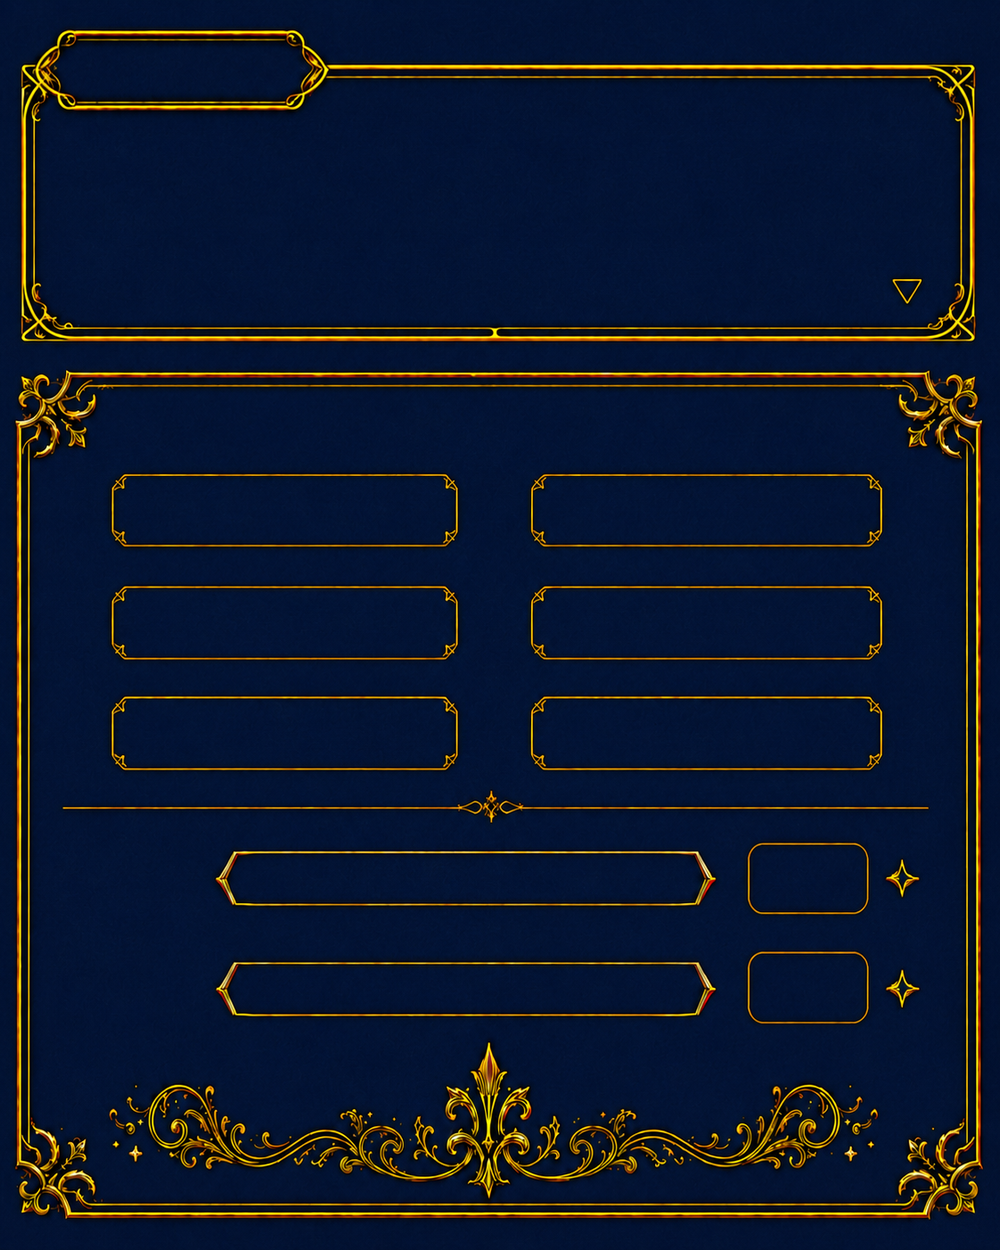
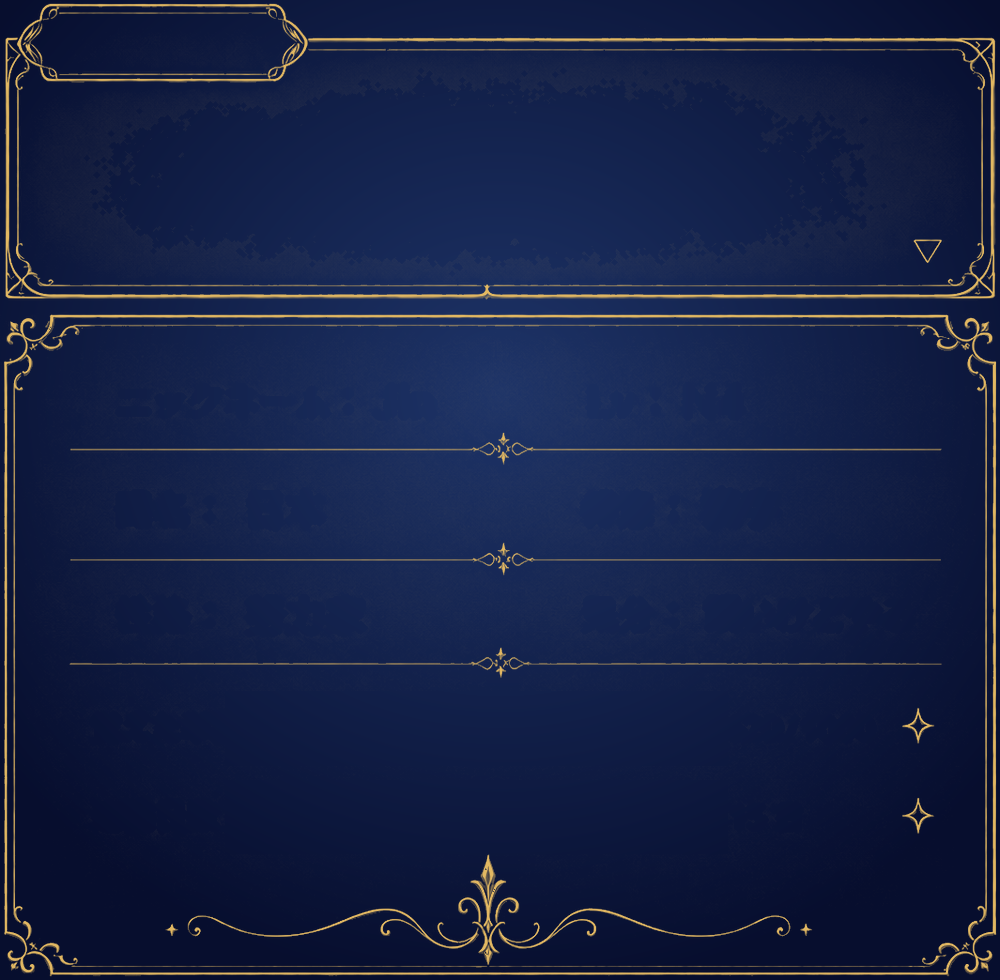
feat(town): 会話+ステータス枠を新デザインに刷新(ラベル:値/標準バー/背景グラデ/テーマ連動文字色)＋招待ボタンをタイトル横(白)へ・紹介コード削除

diff --git a/src/screens/KotobaTownScreen.tsx b/src/screens/KotobaTownScreen.tsx
@@ -142,15 +142,16 @@ const DIALOGBOX = require('../../assets/kotoba/ui/dialogbox.png');
 // 会話+ステータス一体フレーム(上=台詞窓/下=ステータス6枠+バー2行)。ダーク/ライトは同一ジオメトリ(座標表CSは共通)。テーマで切替。
 const CSFRAME_DARK = require('../../assets/kotoba/ui/csframe_dark.png');
 const CSFRAME_LIGHT = require('../../assets/kotoba/ui/csframe_light.png');
-// フレーム内の各要素の分率座標 [x0,y0,x1,y1](素材の枠を機械検出)。名前枠/台詞窓/6枠/バー2行/数字マス。
+// フレーム内の分率座標(サンプル配置を機械検出→トリム後の最終フレーム基準)。
+//  name=話者枠 / say=台詞窓 / 6項目は「ラベル：値」を xL(左列)・xR(右列) の各行(rowY)へ / バー2行(barRowY)＝ラベル+バー(barX0..barX1)+数字(numX)。
 const CS = {
-  name: [0.039, 0.026, 0.323, 0.084],
-  say: [0.05, 0.10, 0.92, 0.28],
-  nick: [0.114, 0.381, 0.455, 0.435], strong: [0.533, 0.381, 0.879, 0.435],
-  lv: [0.114, 0.470, 0.455, 0.526], per: [0.533, 0.470, 0.879, 0.526],
-  country: [0.113, 0.558, 0.455, 0.614], mood: [0.533, 0.558, 0.879, 0.614],
-  bar1: [0.220, 0.682, 0.709, 0.722], num1: [0.749, 0.676, 0.866, 0.730],
-  bar2: [0.222, 0.771, 0.708, 0.810], num2: [0.749, 0.762, 0.866, 0.817],
+  name: [0.021, 0.006, 0.304, 0.079],
+  say: [0.05, 0.11, 0.93, 0.27],
+  xL: 0.09, xR: 0.566,
+  rowY: [0.411, 0.521, 0.629],
+  barLabelX: 0.09,
+  barRowY: [0.744, 0.834],
+  barX0: 0.258, barX1: 0.662, numX: 0.702,
 } as const;
 // 会話を始めるたびにシーンをランダムに選ぶ(固定ではなく多様性を持たせる)。昼夜は実時刻(isDay)で切替。
 
@@ -684,17 +685,12 @@ export default function KotobaTownScreen() {
       {/* 上部バー */}
       <SafeAreaView edges={['top']} style={s.top} pointerEvents="box-none">
         <View style={s.topBar} pointerEvents="box-none">
-          <View style={s.pill}><Text style={s.pillT}>日本語学習者の町</Text></View>
+          <View style={s.topLeft} pointerEvents="box-none">
+            <View style={s.pill}><Text style={s.pillT}>日本語学習者の町</Text></View>
+            {/* 友だちを町に招待(リンク共有→相手が参加で住人に)。白・アイコン無しでタイトル横に。 */}
+            <Pressable style={s.inviteWhite} onPress={onInvite}><Text style={s.inviteWhiteT}>友だちを町に招待</Text></Pressable>
+          </View>
           <Pressable onPress={() => nav.goBack()} hitSlop={12} style={s.close}><Ionicons name="close" size={22} color="#3a3128" /></Pressable>
-        </View>
-        {/* 友だちを町に招待(リンク共有→相手が参加で住人に)＋紹介コード。町=社交の世界観に最も合う入口。 */}
-        <View style={s.inviteRow} pointerEvents="box-none">
-          <Pressable style={[s.inviteBtn, s.inviteBtnSearch]} onPress={onInvite}>
-            <Text style={s.inviteT}>🏘 友だちを町に招待</Text>
-          </Pressable>
-          <Pressable style={s.inviteBtn} onPress={() => nav.navigate('Referral')}>
-            <Text style={s.inviteT}>🎁 紹介コード</Text>
-          </Pressable>
         </View>
       </SafeAreaView>
 
@@ -714,8 +710,8 @@ export default function KotobaTownScreen() {
         const per = personalityOf(talk.personality);
         const mm = moodMsgOf(talk.moodMsg);
         const learned = talk.learned ?? 0;
-        const vocabPct = Math.max(6, Math.min(100, Math.round((learned / 2000) * 100)));
-        const streakPct = Math.max(6, Math.min(100, Math.round(((talk.streak ?? 0) / 60) * 100)));
+        const vocabPct = Math.max(4, Math.min(100, Math.round((learned / 1000) * 100)));
+        const streakPct = Math.max(4, Math.min(100, Math.round(((talk.streak ?? 0) / 30) * 100)));
         const scene = SCENES[talkScene][isDay ? 'day' : 'night'];
         // 一体フレーム(素材はテーマで切替・座標CSは共通)。全幅で高さ=素材比。
         const frameSrc = Image.resolveAssetSource(isDark ? CSFRAME_DARK : CSFRAME_LIGHT);
@@ -740,17 +736,19 @@ export default function KotobaTownScreen() {
         const barTrack = isDark ? 'rgba(9,14,42,0.9)' : '#cdc7b6';
         const panelBg = isDark ? '#132048' : '#f5f1e6';
         const fbox = (r: readonly number[]) => ({ position: 'absolute' as const, left: r[0] * FW, top: r[1] * FH, width: (r[2] - r[0]) * FW, height: (r[3] - r[1]) * FH });
-        const FIELDS: { r: readonly number[]; lab: string; val: string }[] = [
-          { r: CS.nick, lab: 'ニックネーム', val: talk.nick },
-          { r: CS.strong, lab: '得意', val: talk.strong ?? '-' },
-          { r: CS.lv, lab: 'Lv', val: String(talk.level) },
-          { r: CS.per, lab: '性格', val: per ? per.label : '-' },
-          { r: CS.country, lab: '国名', val: (talk.flag ?? '').trim() || '-' },
-          { r: CS.mood, lab: '気分', val: mm ?? '-' },
+        // 6項目=「ラベル：値」を左右2列×3行に。x=列開始, y=行の中心。
+        const FIELDS: { x: number; y: number; lab: string; val: string }[] = [
+          { x: CS.xL, y: CS.rowY[0], lab: 'ニックネーム', val: talk.nick },
+          { x: CS.xR, y: CS.rowY[0], lab: 'Lv', val: String(talk.level) },
+          { x: CS.xL, y: CS.rowY[1], lab: '国名', val: (talk.flag ?? '').trim() || '-' },
+          { x: CS.xR, y: CS.rowY[1], lab: '得意', val: talk.strong ?? '-' },
+          { x: CS.xL, y: CS.rowY[2], lab: '性格', val: per ? per.label : '-' },
+          { x: CS.xR, y: CS.rowY[2], lab: '気分', val: mm ?? '-' },
         ];
-        const bars: { r: readonly number[]; numR: readonly number[]; lab: string; pct: number; num: number; col: string }[] = [
-          { r: CS.bar1, numR: CS.num1, lab: '覚えた単語', pct: vocabPct, num: learned, col: '#37cc74' },
-          { r: CS.bar2, numR: CS.num2, lab: '継続日数', pct: streakPct, num: talk.streak ?? 0, col: '#4aa3ff' },
+        // バー2行=ラベル(左)＋バー(barX0..barX1)＋数字(numX)。覚えた単語=青 / 連続日数=緑(サンプル準拠)。
+        const bars: { lab: string; pct: number; num: string; col: string; y: number }[] = [
+          { lab: '覚えた単語', pct: vocabPct, num: `${learned} / 1000`, col: '#4aa3ff', y: CS.barRowY[0] },
+          { lab: '連続日数', pct: streakPct, num: `${talk.streak ?? 0} 日`, col: '#37cc74', y: CS.barRowY[1] },
         ];
         return (
           <View style={[s.cvWrap, { backgroundColor: panelBg }]}>
@@ -776,31 +774,18 @@ export default function KotobaTownScreen() {
                 </Pressable>
                 {pages.length > 1 && <Text style={{ position: 'absolute', right: FW * 0.14, top: CS.say[3] * FH - FW * 0.075, color: labCol, fontSize: Math.round(FW * 0.03), fontWeight: '800' }}>{page + 1}/{pages.length}</Text>}
                 <Animated.Text style={{ position: 'absolute', right: FW * 0.05, top: CS.say[3] * FH - FW * 0.085, color: labCol, fontSize: Math.round(FW * 0.045), fontWeight: '900', opacity: nextOp, transform: [{ translateY: nextY }] }}>▽</Animated.Text>
-                {/* 6枠: ラベル(枠上・金)＋値(枠内中央) */}
+                {/* 6項目=「ラベル：値」(2列×3行) */}
                 {FIELDS.map((f, i) => (
-                  <View key={i} pointerEvents="none">
-                    <View style={{ position: 'absolute', left: f.r[0] * FW, top: f.r[1] * FH - FW * 0.048, width: (f.r[2] - f.r[0]) * FW, alignItems: 'center' }}>
-                      <Text style={{ color: labCol, fontWeight: '800', fontSize: Math.round(FW * 0.028) }} numberOfLines={1}>{f.lab}</Text>
-                    </View>
-                    <View style={[fbox(f.r), { alignItems: 'center', justifyContent: 'center' }]}>
-                      <Text style={{ color: valCol, fontWeight: '800', fontSize: Math.round(FW * 0.037) }} numberOfLines={1}>{f.val}</Text>
-                    </View>
-                  </View>
+                  <Text key={i} pointerEvents="none" numberOfLines={1} style={{ position: 'absolute', left: f.x * FW, top: f.y * FH - FW * 0.03, color: valCol, fontWeight: '800', fontSize: Math.round(FW * 0.036) }}>{f.lab}：{f.val}</Text>
                 ))}
-                {/* バー2行: ラベル(左余白)＋バー(枠内fill)＋数字(小マス) */}
+                {/* バー2行: ラベル(左)＋バー(barX0..barX1)＋数字(numX) */}
                 {bars.map((b, i) => (
                   <View key={i} pointerEvents="none">
-                    <View style={{ position: 'absolute', left: FW * 0.045, top: b.r[1] * FH, height: (b.r[3] - b.r[1]) * FH, justifyContent: 'center' }}>
-                      <Text style={{ color: labCol, fontWeight: '800', fontSize: Math.round(FW * 0.03) }} numberOfLines={1}>{b.lab}</Text>
+                    <Text numberOfLines={1} style={{ position: 'absolute', left: CS.barLabelX * FW, top: b.y * FH - FW * 0.028, color: valCol, fontWeight: '800', fontSize: Math.round(FW * 0.032) }}>{b.lab}</Text>
+                    <View style={{ position: 'absolute', left: CS.barX0 * FW, top: b.y * FH - FW * 0.019, width: (CS.barX1 - CS.barX0) * FW, height: FW * 0.038, borderRadius: 7, backgroundColor: barTrack, overflow: 'hidden' }}>
+                      <View style={{ position: 'absolute', left: 0, top: 0, bottom: 0, width: (`${b.pct}%` as `${number}%`), backgroundColor: b.col, borderRadius: 7 }} />
                     </View>
-                    <View style={[fbox(b.r), { paddingHorizontal: FW * 0.014, justifyContent: 'center' }]}>
-                      <View style={{ height: (b.r[3] - b.r[1]) * FH * 0.5, borderRadius: 7, backgroundColor: barTrack, overflow: 'hidden' }}>
-                        <View style={{ position: 'absolute', left: 0, top: 0, bottom: 0, width: (`${b.pct}%` as `${number}%`), backgroundColor: b.col, borderRadius: 7 }} />
-                      </View>
-                    </View>
-                    <View style={[fbox(b.numR), { alignItems: 'center', justifyContent: 'center' }]}>
-                      <Text style={{ color: valCol, fontWeight: '900', fontSize: Math.round(FW * 0.036) }} numberOfLines={1}>{b.num}</Text>
-                    </View>
+                    <Text numberOfLines={1} style={{ position: 'absolute', left: CS.numX * FW, top: b.y * FH - FW * 0.028, color: valCol, fontWeight: '900', fontSize: Math.round(FW * 0.034) }}>{b.num}</Text>
                   </View>
                 ))}
               </View>
@@ -873,13 +858,13 @@ const s = StyleSheet.create({
   viewport: { ...StyleSheet.absoluteFillObject, overflow: 'hidden' },
   top: { position: 'absolute', top: 0, left: 0, right: 0 },
   topBar: { flexDirection: 'row', alignItems: 'center', justifyContent: 'space-between', padding: 12 },
+  topLeft: { flexDirection: 'row', alignItems: 'center', gap: 8, flexShrink: 1 },
   pill: { backgroundColor: 'rgba(255,253,248,0.9)', borderRadius: 999, paddingHorizontal: 14, paddingVertical: 7 },
   pillT: { fontSize: 13, fontWeight: '900', color: '#3a3128' },
+  // 友だちを町に招待=白ボタン(アイコン無し)。タイトル横。
+  inviteWhite: { backgroundColor: 'rgba(255,253,248,0.95)', borderRadius: 999, paddingHorizontal: 14, paddingVertical: 7, borderWidth: 1, borderColor: 'rgba(58,49,40,0.15)' },
+  inviteWhiteT: { fontSize: 13, fontWeight: '900', color: '#3a3128', letterSpacing: 0.2 },
   close: { width: 38, height: 38, borderRadius: 19, backgroundColor: 'rgba(255,253,248,0.9)', alignItems: 'center', justifyContent: 'center' },
-  inviteRow: { flexDirection: 'row', flexWrap: 'wrap', gap: 8, paddingHorizontal: 12, marginTop: 4, alignItems: 'flex-start' },
-  inviteBtnSearch: { backgroundColor: '#3f7bd6' },
-  inviteBtn: { flexDirection: 'row', alignItems: 'center', backgroundColor: '#e2588f', borderRadius: 999, paddingVertical: 8, paddingHorizontal: 15, borderWidth: 2, borderColor: '#ffffff', shadowColor: '#000', shadowOpacity: 0.22, shadowRadius: 6, shadowOffset: { width: 0, height: 2 }, elevation: 3 },
-  inviteT: { color: '#ffffff', fontWeight: '900', fontSize: 13, letterSpacing: 0.3 },
   bottom: { position: 'absolute', left: 0, right: 0, bottom: 0 },
   stickWrap: { paddingBottom: 26 }, // 左右はhandedで付与(右利き=右)
   stickBase: { width: STICK_R * 2, height: STICK_R * 2, borderRadius: STICK_R, backgroundColor: 'rgba(58,49,40,0.28)', borderWidth: 2, borderColor: 'rgba(255,255,255,0.35)', alignItems: 'center', justifyContent: 'center' },

diff --git a/memory/session-summary-LATEST.md b/memory/session-summary-LATEST.md
@@ -1,19 +1,13 @@
 # 前セッション圧縮情報
 
 ## 何をしたか
-- ツール呼び出し 34 回・73 ターン
-- 往復 32685 回
 
 ## 何が変わったか
 - memory/handoff.md
-- src/screens/KotobaTownScreen.tsx
-- 画像/会話/会話+ステータス_ダーク.png
-- src/theme/useColors.ts
+- 画像/会話/会話+ステータス_テンプレ_ライト.png
+- 画像/会話/会話+ステータス_テンプレ_ダーク.png
 - assets/kotoba/ui/csframe_light.png
-
-## ⚠ 注意
-- - ⚠ 連続 73ターン（文脈 31万）— ループが長い
-- - ツール呼び出しループが長い（指示1件に対し 73ターン・ツール34回）— まとめ方を変える
+- assets/kotoba/ui/csframe_dark.png
 
 ## 次の一手
 - **🎴 ステータス枠をアプリ組み込み＝実装済・tsc0・未ビルド（2026-08-07）**: 会話の'status'ステップを旧RPGカードから装飾枠`assets/kotoba/ui/statusframe.png`(大外の外＋長ボックス2つを透過窓化)へ置換。枠は1000x740、FW=min(VW*0.98,VH*0.60/0.74)。上段6項目=ラベル(枠上・金sLabel)+値(枠内中央・白sVal)、座標frac: L=cx0.272/R0.725, labelY[0.118,0.276,0.435]/valY[0.180,0.338,0.497]。下段バー=枠背後(先に描画→枠Image→ラベル)で透過窓に透ける(A窓x0.293-0.776 y0.630-0.670緑vocab/B y0.761-0.800青streak)、数字cx0.86。KotobaTownScreen.tsxのみ。旧rpg*スタイルは未使用のまま残置。**次ビルドで実機確認**。

diff --git a/memory/handoff.md b/memory/handoff.md
@@ -39,10 +39,6 @@
 
 <!-- AUTO:BEGIN -->
 
-## ⚠ 会話が重くなっている（自動）
-- ⚠ 連続 73ターン（文脈 31万）— ループが長い
-- ツール呼び出しループが長い（指示1件に対し 73ターン・ツール34回）— まとめ方を変える
-
 ## 走行中の run（自動・完了通知が来ていないもの）
 - a24a55339e7688334 general-purpose
 - a299080a95b15e8d3 general-purpose
@@ -51,14 +47,14 @@
 - a83565e1b69fe6554 general-purpose
 
 ## 直近24時間の変更ファイル（自動）
-- src/screens/KotobaTownScreen.tsx
-- 画像/会話/会話+ステータス_ダーク.png
-- src/theme/useColors.ts
+- 画像/会話/会話+ステータス_テンプレ_ライト.png
+- 画像/会話/会話+ステータス_テンプレ_ダーク.png
 - assets/kotoba/ui/csframe_light.png
 - assets/kotoba/ui/csframe_dark.png
-- 画像/会話/old/会話+ステータス_ダーク.png
-- 画像/会話/会話+ステータス_ライト.png
-- 画像/会話/old/ステータス_ダーク.png
+- src/screens/KotobaTownScreen.tsx
+- memory/session-summary-LATEST.md
+- memory/handoff.md
+- content/_manifest.json
 
-_自動更新: 2026-08-07 19:02_
+_自動更新: 2026-08-07 19:39_
 <!-- AUTO:END -->
